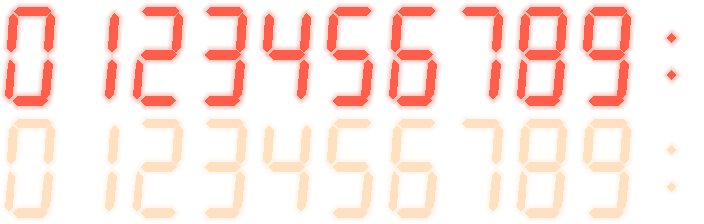
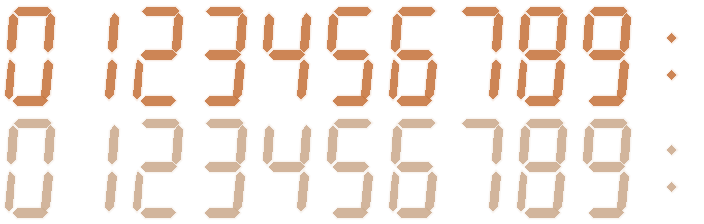
fix: 일정 배치와 영수증 전광판 보정

diff --git a/src/styles/responsive/matches-arena-responsive.css b/src/styles/responsive/matches-arena-responsive.css
@@ -291,7 +291,7 @@ html[data-theme="light"] .om-calendar-filter-bar {
 
 .om-schedule-rail .om-view-grid {
   grid-template-columns: repeat(3, minmax(0, 1fr));
-  gap: var(--space-2);
+  gap: var(--space-3);
   overflow: visible;
   padding: 0;
   border: 0;
@@ -306,15 +306,15 @@ html[data-theme="light"] .om-calendar-filter-bar {
   min-height: 60px;
   padding: var(--space-4) var(--space-5) var(--space-4) var(--space-6);
   border: 0;
-  border-radius: 0;
-  background: transparent;
+  border-radius: var(--ui-control-radius);
+  background: color-mix(in srgb, var(--ui-control-bg) 58%, transparent);
   box-shadow: none;
   transform: none;
 }
 
 .om-schedule-workspace .om-schedule-rail .om-view-card.active {
   color: var(--rb-orange-2);
-  background: transparent;
+  background: color-mix(in srgb, var(--rb-orange-2) 12%, var(--ui-control-bg));
   box-shadow: none;
 }
 
@@ -348,7 +348,7 @@ html[data-theme="light"] .om-calendar-filter-bar {
 .om-schedule-workspace .om-schedule-rail > .om-calendar-summary {
   min-width: 0;
   margin: 0;
-  padding: var(--space-4) var(--space-5) var(--space-5);
+  padding: var(--space-5) var(--space-6) var(--space-6) var(--space-10);
   border: var(--ui-stroke-width) solid var(--rb-line);
   border-radius: var(--radius-md);
   background: transparent;
@@ -364,9 +364,7 @@ html[data-theme="light"] .om-calendar-filter-bar {
 
   .om-schedule-workspace.is-calendar {
     grid-template-columns: minmax(300px, 420px) minmax(400px, 560px);
-    align-items: start;
-    justify-content: center;
-    gap: var(--space-6);
+    justify-content: space-between;
   }
 
   .om-schedule-rail {
@@ -375,14 +373,8 @@ html[data-theme="light"] .om-calendar-filter-bar {
     grid-template-rows: auto minmax(0, 1fr);
   }
 
-  .om-schedule-workspace.is-calendar .om-schedule-rail {
-    grid-template-rows: auto auto;
-    align-self: start;
-    height: auto;
-  }
-
-  .om-schedule-workspace.is-calendar .om-schedule-rail > .om-calendar-summary {
-    height: auto;
+  .om-schedule-workspace .om-schedule-rail > .om-calendar-summary {
+    height: 100%;
     align-content: start;
   }
 
@@ -394,17 +386,17 @@ html[data-theme="light"] .om-calendar-filter-bar {
 
   .om-schedule-workspace > .om-calendar-panel {
     width: min(100%, 560px);
-    height: auto;
-    align-items: start;
-    align-self: start;
+    height: 100%;
+    align-items: stretch;
+    align-self: stretch;
     justify-self: stretch;
   }
 
   .om-schedule-workspace .om-calendar-box {
     width: 100%;
-    height: auto;
+    height: 100%;
     min-height: 0;
-    grid-template-rows: auto auto auto;
+    grid-template-rows: auto auto minmax(0, 1fr);
   }
 
   .om-schedule-workspace .om-calendar-grid {

diff --git a/src/lib/matchReceipt.js b/src/lib/matchReceipt.js
@@ -58,6 +58,7 @@ const MATCH_RECEIPT_DEFAULT_SCOREBOARD_SOURCE_RECT = Object.freeze({
   y: 275 / 1671,
   width: 117 / 941,
   height: 96 / 1671,
+  topEdgeRise: -11 / 1671,
 });
 export function formatMatchReceiptScoreboardScore(value) {
   return String(cleanScore(value)).padStart(2, "0");
@@ -741,6 +742,7 @@ function getDefaultPhotoSourceRect(image, rect, sourceRect) {
     y: rect.y - (foregroundHeight - rect.height) * positionY + sourceRect.y * foregroundHeight,
     width: sourceRect.width * foregroundWidth,
     height: sourceRect.height * foregroundHeight,
+    topEdgeRise: sourceRect.topEdgeRise * foregroundHeight,
   };
 }
 
@@ -780,7 +782,11 @@ function drawCanvasScoreboardValue(ctx, atlas, value, row, rect) {
 }
 
 function drawCanvasPhotoScoreboard(ctx, image, atlas, photoRect, model) {
-  const board = getDefaultPhotoSourceRect(image, photoRect, MATCH_RECEIPT_DEFAULT_SCOREBOARD_SOURCE_RECT);
+  const sourceBoard = getDefaultPhotoSourceRect(image, photoRect, MATCH_RECEIPT_DEFAULT_SCOREBOARD_SOURCE_RECT);
+  ctx.save();
+  ctx.translate(sourceBoard.x, sourceBoard.y);
+  ctx.transform(1, sourceBoard.topEdgeRise / sourceBoard.width, 0, 1, 0, 0);
+  const board = { x: 0, y: 0, width: sourceBoard.width, height: sourceBoard.height };
   const clockY = board.y;
   const clockHeight = board.height * 0.38;
   const clockDigitAreaWidth = board.width * 0.37;
@@ -818,6 +824,7 @@ function drawCanvasPhotoScoreboard(ctx, image, atlas, photoRect, model) {
     width: scoreWidth,
     height: scoreHeight,
   });
+  ctx.restore();
 }
 
 function createCanvasPaperPattern(ctx, paperGrain) {

diff --git a/src/styles/features/match-receipt-details.css b/src/styles/features/match-receipt-details.css
@@ -11,8 +11,8 @@
   align-content: space-between;
   width: 12.4%;
   height: 12.4%;
-  transform: rotate(-0.25deg);
-  transform-origin: center;
+  transform: skewY(-5.37deg);
+  transform-origin: top left;
   pointer-events: none;
 }
 

diff --git a/docs/design-system.md b/docs/design-system.md
@@ -1825,7 +1825,7 @@ UI 수정 전:
 ## 2026-07-16 경기 일정·랭크보드·팝업 반응형
 
 1. 일정 상태 보기는 `내 일정 / 처리 필요 / 예정 / 취소된 방 / 내 팀 경기 / 비공개 대회` 6개로 구성한다.
-1-1. 일정 레일이 분리되는 `900px` 이상에서는 한 DOM의 상태 보기를 왼쪽 레일의 3×2 압축 선택 그리드로 배치하고, 관계·유형 필터를 같은 레일 바로 아래에 둔다. 여섯 상태 항목은 외곽선·개별 테두리·면색 없이 텍스트와 숫자만 노출하고 활성 항목은 주황 글자색으로 구분한다. 관계·유형 필터는 `내 경기 일정` 또는 `내 팀 일정` legend가 상단선을 끊는 영수증 fieldset에 묶는다.
+1-1. 일정 레일이 분리되는 `900px` 이상에서는 한 DOM의 상태 보기를 왼쪽 레일의 3×2 압축 선택 그리드로 배치하고, 관계·유형 필터를 같은 레일 바로 아래에 둔다. 여섯 상태 항목은 개별 테두리 없이 옅은 공용 control 면색을 사용하고 활성 항목은 옅은 주황 면색과 주황 글자색으로 구분한다. 관계·유형 필터는 `내 경기 일정` 또는 `내 팀 일정` legend가 상단선을 끊는 영수증 fieldset에 묶고, 내용은 왼쪽에 충분한 내부 여백을 둔다.
 1-2. `899px` 이하에서는 같은 상태 보기와 관계·유형 필터를 일정 본문 위에 유지한다. `641~899px`는 3열, `640px` 이하는 2열이며 반응형 배치를 위해 DOM·상태·이벤트 처리를 복제하지 않는다.
 1-3. 대회 상세에 뒤로가기 링크가 먼저 있으면 `1079px` 이하 hero의 상단 음수 여백을 적용하지 않는다. 링크와 hero가 겹치지 않아야 한다.
 2. `내 팀 경기`는 초기 목록에 섞지 않고, 해당 보기 카드를 누를 때만 팀 일정을 조회한다. 기본 관계 필터는 `전체 / 내가 만든 방 / 내 참여방 / 초대받은 방`만 표시한다.
@@ -2499,11 +2499,11 @@ UI 수정 전:
 15. 검색·입력 필드는 실제 경계를 유지한다. 경기·팀·알림·프로필 수치·구장 정보 같은 정보 표면은 `.ui-design-info-surface` 또는 부모 `.ui-design-borderless-list`를 사용해 동일한 배경과 무테두리를 상속한다.
 16. 공통 테두리 정책은 페이지별 선택자를 추가하지 않고 `--card-border`, `--ui-card-border`, `.ui-design-info-surface`, `.ui-design-borderless-list`, `--ui-design-soft-surface-bg`에서만 변경한다.
 17. 공용 `Card`의 `section-card`는 자동으로 `.ui-design-category-surface`가 된다. 전용 분류 카드는 같은 중립 클래스를 명시해 페이지별 클래스명 때문에 박스 제거가 누락되지 않게 한다.
-18. 매칭 필터처럼 기능 경계는 필요하지만 페이지 배경과 강한 대비가 불필요한 표면은 `.ui-design-soft-surface`를 사용한다. 라이트·다크 모두 같은 `--ui-design-soft-surface-bg` 계열을 사용하고 외곽선은 제거한다. 일정 상태 필터는 외곽선과 면색을 사용하지 않고, 관계·유형 필터만 제목 legend가 상단선을 끊는 영수증 fieldset으로 묶는다. 달력은 별도 면과 외곽선을 만들지 않는다.
+18. 매칭 필터처럼 기능 경계는 필요하지만 페이지 배경과 강한 대비가 불필요한 표면은 `.ui-design-soft-surface`를 사용한다. 라이트·다크 모두 같은 `--ui-design-soft-surface-bg` 계열을 사용하고 외곽선은 제거한다. 일정 상태 필터는 개별 외곽선 없이 옅은 공용 control 면색을 사용하고, 관계·유형 필터는 제목 legend가 상단선을 끊는 영수증 fieldset으로 묶는다. 달력은 별도 면과 외곽선을 만들지 않는다.
 19. 일정의 관계·유형 필터는 가능한 한 한 줄에 배치하고 항목 너비를 내용에 맞춘다. 좁은 화면에서는 줄바꿈이나 두 열 카드로 바꾸지 않고 가로 이동으로 보존한다.
 20. `.ui-design-info-surface`는 단일 정보 표면, `.ui-design-borderless-list`는 바로 아래 정보 행 전체에 공통 무테두리와 카드 배경을 적용한다. 경고는 배경·문자색으로 구분하고 승·패·무는 공용 파스텔 면색과 왼쪽 의미색 상태선을 함께 유지한다.
 21. 일정 상태 필터는 `.ui-design-filter-tile`을 사용한다. `899px` 이하 `editorial`에서는 최소 높이 `60px`과 세로 패딩 `7px`을 사용해 기본 카드 높이의 약 70%로 줄인다.
-21-1. `900px` 이상 레일 항목은 공용 소형 제어 높이를 쓰는 3×2 그룹으로 압축한다. 그룹과 개별 카드의 외곽선·면색·상태선·그림자·아이콘은 제거하고, 활성 항목은 공용 주황 글자색으로만 구분한다.
+21-1. `900px` 이상 레일 항목은 공용 소형 제어 높이를 쓰는 3×2 그룹으로 압축한다. 그룹과 개별 카드의 외곽선·상태선·그림자·아이콘은 제거하고, 비활성 항목은 옅은 공용 control 면색, 활성 항목은 옅은 주황 면색과 공용 주황 글자색으로 구분한다.
 22. 티어·디비전·`배정 전` 제목은 `.ui-tier-label`을 사용해 `--sports-display-font`인 KBO Dia Gothic Bold를 적용한다. MMR·설명·버튼은 본문 글꼴을 유지한다.
 23. 공개 메인 페이지(`/`)는 데모의 히어로·가까운 경기·대표팀·시즌·최근 경기 구성을 실제 공개 데이터에 연결한다. 데모의 화면 설정 섹션은 공개 메인에 포함하지 않는다.
 23-1. 공개 메인의 시즌 스포트라이트는 일반 페이지 표면 위에 있으므로 경기·팀·선수 수치를 `--text`, 항목명을 `--muted`로 표시한다. 이미지 위 전용 흰색 토큰을 사용하지 않는다.
@@ -2846,7 +2846,7 @@ UI 수정 전:
 13. 기준 이미지의 상대 좌표를 유지한다. 사진 하단은 포스터 높이 약 46%까지 이어지고 아래쪽에만 점진적 블러와 검정 반투명 마스크를 적용한다. 하단 종이는 약 78%에서 시작하며 장소·개인 기록·QR 3열의 세로 점선, 장소와 날짜 사이 가로 점선, PTS·REB 사이 세로 점선, 개인 기록 캡션 위 가로 점선을 미리보기와 Canvas에 동일하게 표시한다.
 14. `FRIENDLY`, `COMPETITIVE`, `REVENGE`, `SEMIFINAL`, `FINAL` 경기 성격과 `MATCH RECEIPT`·`BOXTIER VERIFIED`는 좁고 긴 `Bebas Neue`와 좁은 자간으로 표시하고, 두 검증 문구의 굵기·자간을 동일하게 유지하며 좌우선은 가늘게 유지한다. canonical 팀 티어가 없으면 실제 티어로 오인되지 않는 중립 농구 선화를 표시하고 `HOME`/`AWAY` 문구는 표시하지 않는다. 실제 canonical 팀 티어가 있으면 중립 선화 대신 해당 티어 선화와 `TEAM TIER · {영문 티어}`를 표시한다. 두 종류 선화는 같은 크기와 같은 약간 위로 올린 위치를 사용해 팀 사이 정렬을 유지한다.
 15. 기준 945×1672 이미지의 상대 좌표를 미리보기와 Story PNG에 함께 적용한다. 경기 성격은 포스터 폭의 3.3%, 팀명은 4.8%, 팀명 아래 팀 선화는 포스터 폭의 약 20%로 표시하고 하단 종이는 높이 78.3%에서 시작한다. 점수·팀명 좌우의 동일 선화 워터마크는 각 열 너비보다 크게 확대해 외곽이 자연스럽게 잘리도록 표시한다. 팀명과 점수 사이 콜론은 canonical 종이 질감을 글자 내부에 마스킹해 굵은 섬유와 잉크 벗겨짐만 남기고 별도 글자 그림자나 대비 필터를 추가하지 않는다. 개인 티어는 `MY GAME` 열에서 읽을 수 있는 64% 불투명도 워터마크로 유지한다. 개인 스탯이 없으면 수치를 만들지 않고 `GAME INFO` 아래 실제 경기 형식과 경기 성격을 표시하며, 개인 티어가 있으면 선화와 영문 티어 라벨도 함께 유지한다.
-16. 기본 배경은 세로 실사 사진 에셋을 사용하고 일반 체육관의 낮은 코트 시점에서 경기 종료 버저 직전의 점프슛을 포착한다. 짧은 머리인 슈터와 수비수는 뒷모습만 보여 인물 식별 요소를 숨기고, 빈 물리 전광판과 골대는 상단 사진 영역, 규격과 패널선이 정상인 공 한 개는 손과 분리된 자연스러운 슛 궤적에 둔다. 두 선수 외 관중·벤치 인물은 넣지 않는다. 작전판·클립보드·종이는 넣지 않고 코트선과 골대는 실제 원근·규격을 유지한다. 기본 사진은 전용 초점 좌표를 유지한 채 사진 프레임을 빈틈없이 덮고 전경 축소·블러 배경 여백을 만들지 않는다. 빈 전광판 위의 고정 `00:00`과 `0~999` 범위의 canonical 최종 점수는 웹 미리보기와 Story·Feed 저장본에서 같은 PNG 아틀라스와 원본 좌표를 사용한다. 한두 자리 점수는 최소 두 자리로 표시하고 세 자리 점수는 같은 패널 안에서 축소해 표시한다. 런타임 폰트·SVG·Canvas 벡터 경로로 다시 그리지 않는다. 사용자가 넣은 사진의 이동·확대·회전 값은 바꾸지 않는다. 기본 팀 선화의 중앙 농구공·림·골망은 canonical 팀 티어 선화처럼 공이 수평 정면 림 뒤에 걸리고 골망이 수직으로 내려오며 농구공 패널선만 사선으로 흐르는 구도와 일정한 금색 획을 사용한다. 실제 팀 티어가 있으면 중립 선화를 교체하고 바로 아래에 `TEAM TIER · {티어}`를 표시한다.
+16. 기본 배경은 세로 실사 사진 에셋을 사용하고 일반 체육관의 낮은 코트 시점에서 경기 종료 버저 직전의 점프슛을 포착한다. 짧은 머리인 슈터와 수비수는 뒷모습만 보여 인물 식별 요소를 숨기고, 빈 물리 전광판과 골대는 상단 사진 영역, 규격과 패널선이 정상인 공 한 개는 손과 분리된 자연스러운 슛 궤적에 둔다. 두 선수 외 관중·벤치 인물은 넣지 않는다. 작전판·클립보드·종이는 넣지 않고 코트선과 골대는 실제 원근·규격을 유지한다. 기본 사진은 전용 초점 좌표를 유지한 채 사진 프레임을 빈틈없이 덮고 전경 축소·블러 배경 여백을 만들지 않는다. 빈 전광판 위의 고정 `00:00`과 `0~999` 범위의 canonical 최종 점수는 같은 PNG 아틀라스와 원본 좌표를 사용하며, 원본 패널 상단 모서리의 기울기를 canonical 좌표로 적용해 각 숫자가 같은 전광판 면을 따르도록 웹 미리보기와 Story·Feed 저장본에 표시한다. LED 아틀라스는 사진 조명에 맞춘 낮은 채도의 호박색 본체와 약한 번짐을 공유한다. 한두 자리 점수는 최소 두 자리로 표시하고 세 자리 점수는 같은 패널 안에서 축소해 표시한다. 런타임 폰트·SVG·Canvas 벡터 경로로 다시 그리지 않는다. 사용자가 넣은 사진의 이동·확대·회전 값은 바꾸지 않는다. 기본 팀 선화의 중앙 농구공·림·골망은 canonical 팀 티어 선화처럼 공이 수평 정면 림 뒤에 걸리고 골망이 수직으로 내려오며 농구공 패널선만 사선으로 흐르는 구도와 일정한 금색 획을 사용한다. 실제 팀 티어가 있으면 중립 선화를 교체하고 바로 아래에 `TEAM TIER · {티어}`를 표시한다.
 17. 각 팀 선화는 기준 이미지처럼 두 번 표시한다. 팀명 아래에는 금색 선화를 원형 크기로 표시하고, 점수·팀명 좌우 배경에는 같은 선화를 크게 확대해 바깥쪽이 잘린 흰색 단색 8% 불투명도 워터마크로 표시한다. 업로드 팀 선화·canonical 티어·중립 엠블럼의 뒤쪽 대형 워터마크는 같은 색상과 불투명도를 사용한다. 개인 티어 선화는 `MY GAME` 열에서 읽을 수 있는 저대비 워터마크로 표시하고 바로 아래에 `MY TIER · {영문 티어}`를 새긴다. 일련번호 아래 프로필 해시태그는 개인 티어와 같은 조건으로만 표시한다. 익명 영수증에는 개인 선화·티어 문구·프로필 해시태그를 모두 숨긴다. 중립 선화는 CSS 도형이 아닌 투명 PNG로 제공하며 두꺼운 일정 획의 이중 외곽선 방패와 canonical 팀 티어 선화에 맞춘 농구공·원근 림·골망으로 구성한다. 홈은 월계수, 어웨이는 잎과 가지가 없는 각형 날개·코트 지지 구조로 구분하고 등급명·등급 숫자는 넣지 않는다. 미리보기와 Canvas 저장 결과에 같은 규칙을 적용한다.
 18. 점수와 팀명은 좌우 같은 열 중심축에 배치하고 점수 아래에는 기준 포스터 높이의 최소 1% 여백을 둔다. 한 줄·두 줄 팀명은 고정 높이 안에서 세로 중앙 정렬한다. 한글 팀명은 음수 자간 없이 수평 92% 축소로 시각 밀도를 맞춘다. 긴 팀명은 글자 수에 따라 미리보기와 저장 PNG에서 같은 비율로 축소하고 두 줄 영역 밖으로 넘기지 않는다. 팀명 아래 엠블럼은 팀 열 너비의 30% 안에서 표시하고 `TEAM TIER` 문구는 8px 이하로 줄여 하단 정보지와 겹치지 않게 한다. 편집기에서는 팀 컬러 입력을 노출하지 않고 팀명·점수를 한 행에 배치한다. 경기 장소는 읽기 전용 입력과 지도 선택 버튼으로 제공하고 지도 선택 시 구장명과 내부 원주소를 채운다. 자유 표기는 별도 `짧은 장소` 입력으로만 받으며 경기 장소와 짧은 장소 중 하나만 입력해도 위치 필수값을 충족한다. 두 입력의 placeholder에서 이 차이를 안내한다.
 19. 중립 선화는 홈·어웨이별 별도 PNG를 사용한다. 홈은 겹잎 월계수, 어웨이는 각형 날개·코트 지지대·작은 기하 포인트를 외곽 모티프로 사용한다. 중앙의 이중 방패와 팀 티어 계열의 공·림·골망 구조, 금색 획 굵기는 통일한다. 림은 양쪽 모두 수평 정면으로 두고 농구공 패널선 방향과 외곽 장식으로 좌우를 구분한다.
@@ -2940,7 +2940,7 @@ UI 수정 전:
 9. 팀 허브·알림·랭킹처럼 반복되는 정보 목록은 공용 surface를 기능 CSS에서 다시 칠하지 않는다. 행 사이의 공용 divider와 의미 상태색만으로 구분한다.
 10. 영수증의 경기 점수와 개인 PTS·REB는 동일한 숫자 스프라이트를 사용한다. 티어 엠블럼 후광은 정보와 겹치지 않는 범위에서 보존하고 overflow로 잘라내지 않는다.
 11. 필수 설명만 본문에 남긴다. 보조 설명은 키보드 focus를 지원하는 도움말 트리거로 제공하고, 데스크톱은 hover/focus, 터치 환경은 click으로 연다.
-12. 일정 데스크톱 rail과 달력은 자연 높이를 사용하고, `420px` 이하 필터 열과 `560px` 이하 달력 열을 가운데 모아 공용 고정 간격으로 배치한다. 남는 가로폭을 두 열 사이에 분배하지 않는다. 상태 filter는 외곽선·면색 없이 표시하고, 관계·유형 선택은 제목 legend가 상단선을 끊는 영수증 fieldset 안에서 투명 배경의 compact control 계약을 유지한다. `899px` 이하에서는 세로 배치로 전환한다.
+12. 일정 데스크톱 rail은 왼쪽, `560px` 이하 달력 열은 오른쪽에 두고 남는 가로폭을 두 열 사이에 분배한다. 두 열과 내부 달력은 같은 세로 높이로 늘어나야 한다. 상태 filter는 개별 외곽선 없이 옅은 면색을 사용하고, 관계·유형 선택은 제목 legend가 상단선을 끊는 영수증 fieldset 안에서 왼쪽 내부 여백을 충분히 확보한 compact control 계약을 유지한다. `899px` 이하에서는 세로 배치로 전환한다.
 13. 일정·매칭 hero는 운영 화면용 공용 최소 높이와 padding을 사용한다. 두 화면 중 하나에만 page-local 크기를 두지 않는다. 방 만들기·기록하기 action은 경기 방식 요약 아래의 한 행에 둔다. 모바일에서는 두 action을 같은 grid 안에 같은 폭으로 배치하고 별도 rail 또는 큰 빈 간격을 만들지 않는다.
 14. 설정과 프로필 section의 동급 action은 데스크톱에서 같은 폭으로 오른쪽 정렬한다. 모바일에서는 가용 너비를 사용한다. 화면 테마 선택은 아이콘, 선택 상태, 구획선을 가진 button group으로 표시한다. Discord 연결·해제는 일반 저장 action과 같은 공용 button 높이를 사용한다. 신고 접수·신고 목록과 차단·차단 목록은 각각 한 행의 2열 동일 폭 action으로 배치한다.
 15. 설정 알림 checkbox 행은 첫 행과 같은 왼쪽 기준선에 맞춘다. 연결된 로그인은 데스크톱 한 rail 너비로 가운데 배치하고 provider action은 설정의 공용 action 폭을 사용한다.
